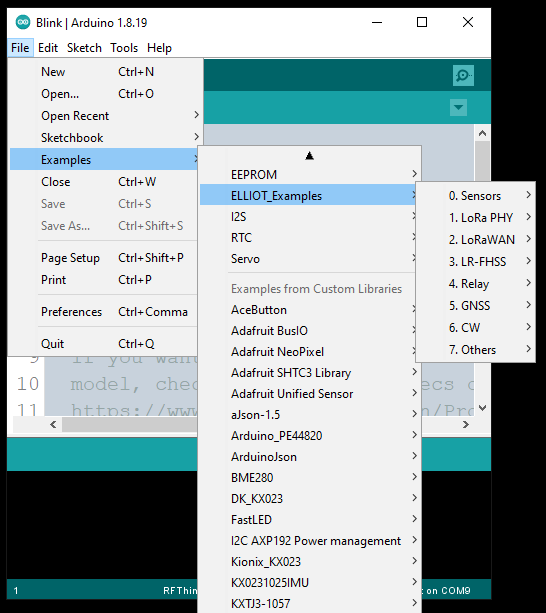
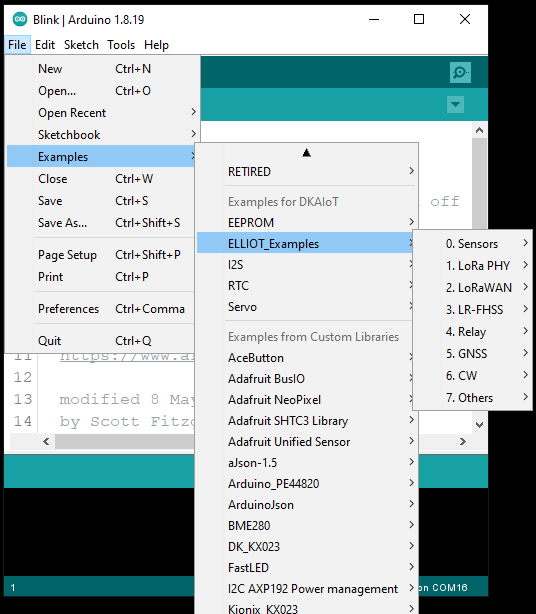
Update: README.md

Changed region(s): [[0.0, 0.0, 1.0, 1.0]]

diff --git a/README.md b/README.md
@@ -47,7 +47,7 @@ https://fabienferrero.github.io/ArduinoBoardManagerJSON/package_uca-dkaiot_index
 
 ## Getting Started with Examples
 
-After installing the core, select the DKAIoT board by **Tools** > **Board** > **RFThings STM32L4 Boards** > **DKAIoT**. Examples will be available in **File** > **Examples** > **ELLIOT_Examples** > **...**
+After installing the core, select the DKAIoT board by **Tools** > **Board** > **UCA-DKAIoT Boards** > **DKAIoT**. Examples will be available in **File** > **Examples** > **ELLIOT_Examples** > **...**
 
 Select the board           |  Examples
 :-------------------------:|:-------------------------:
